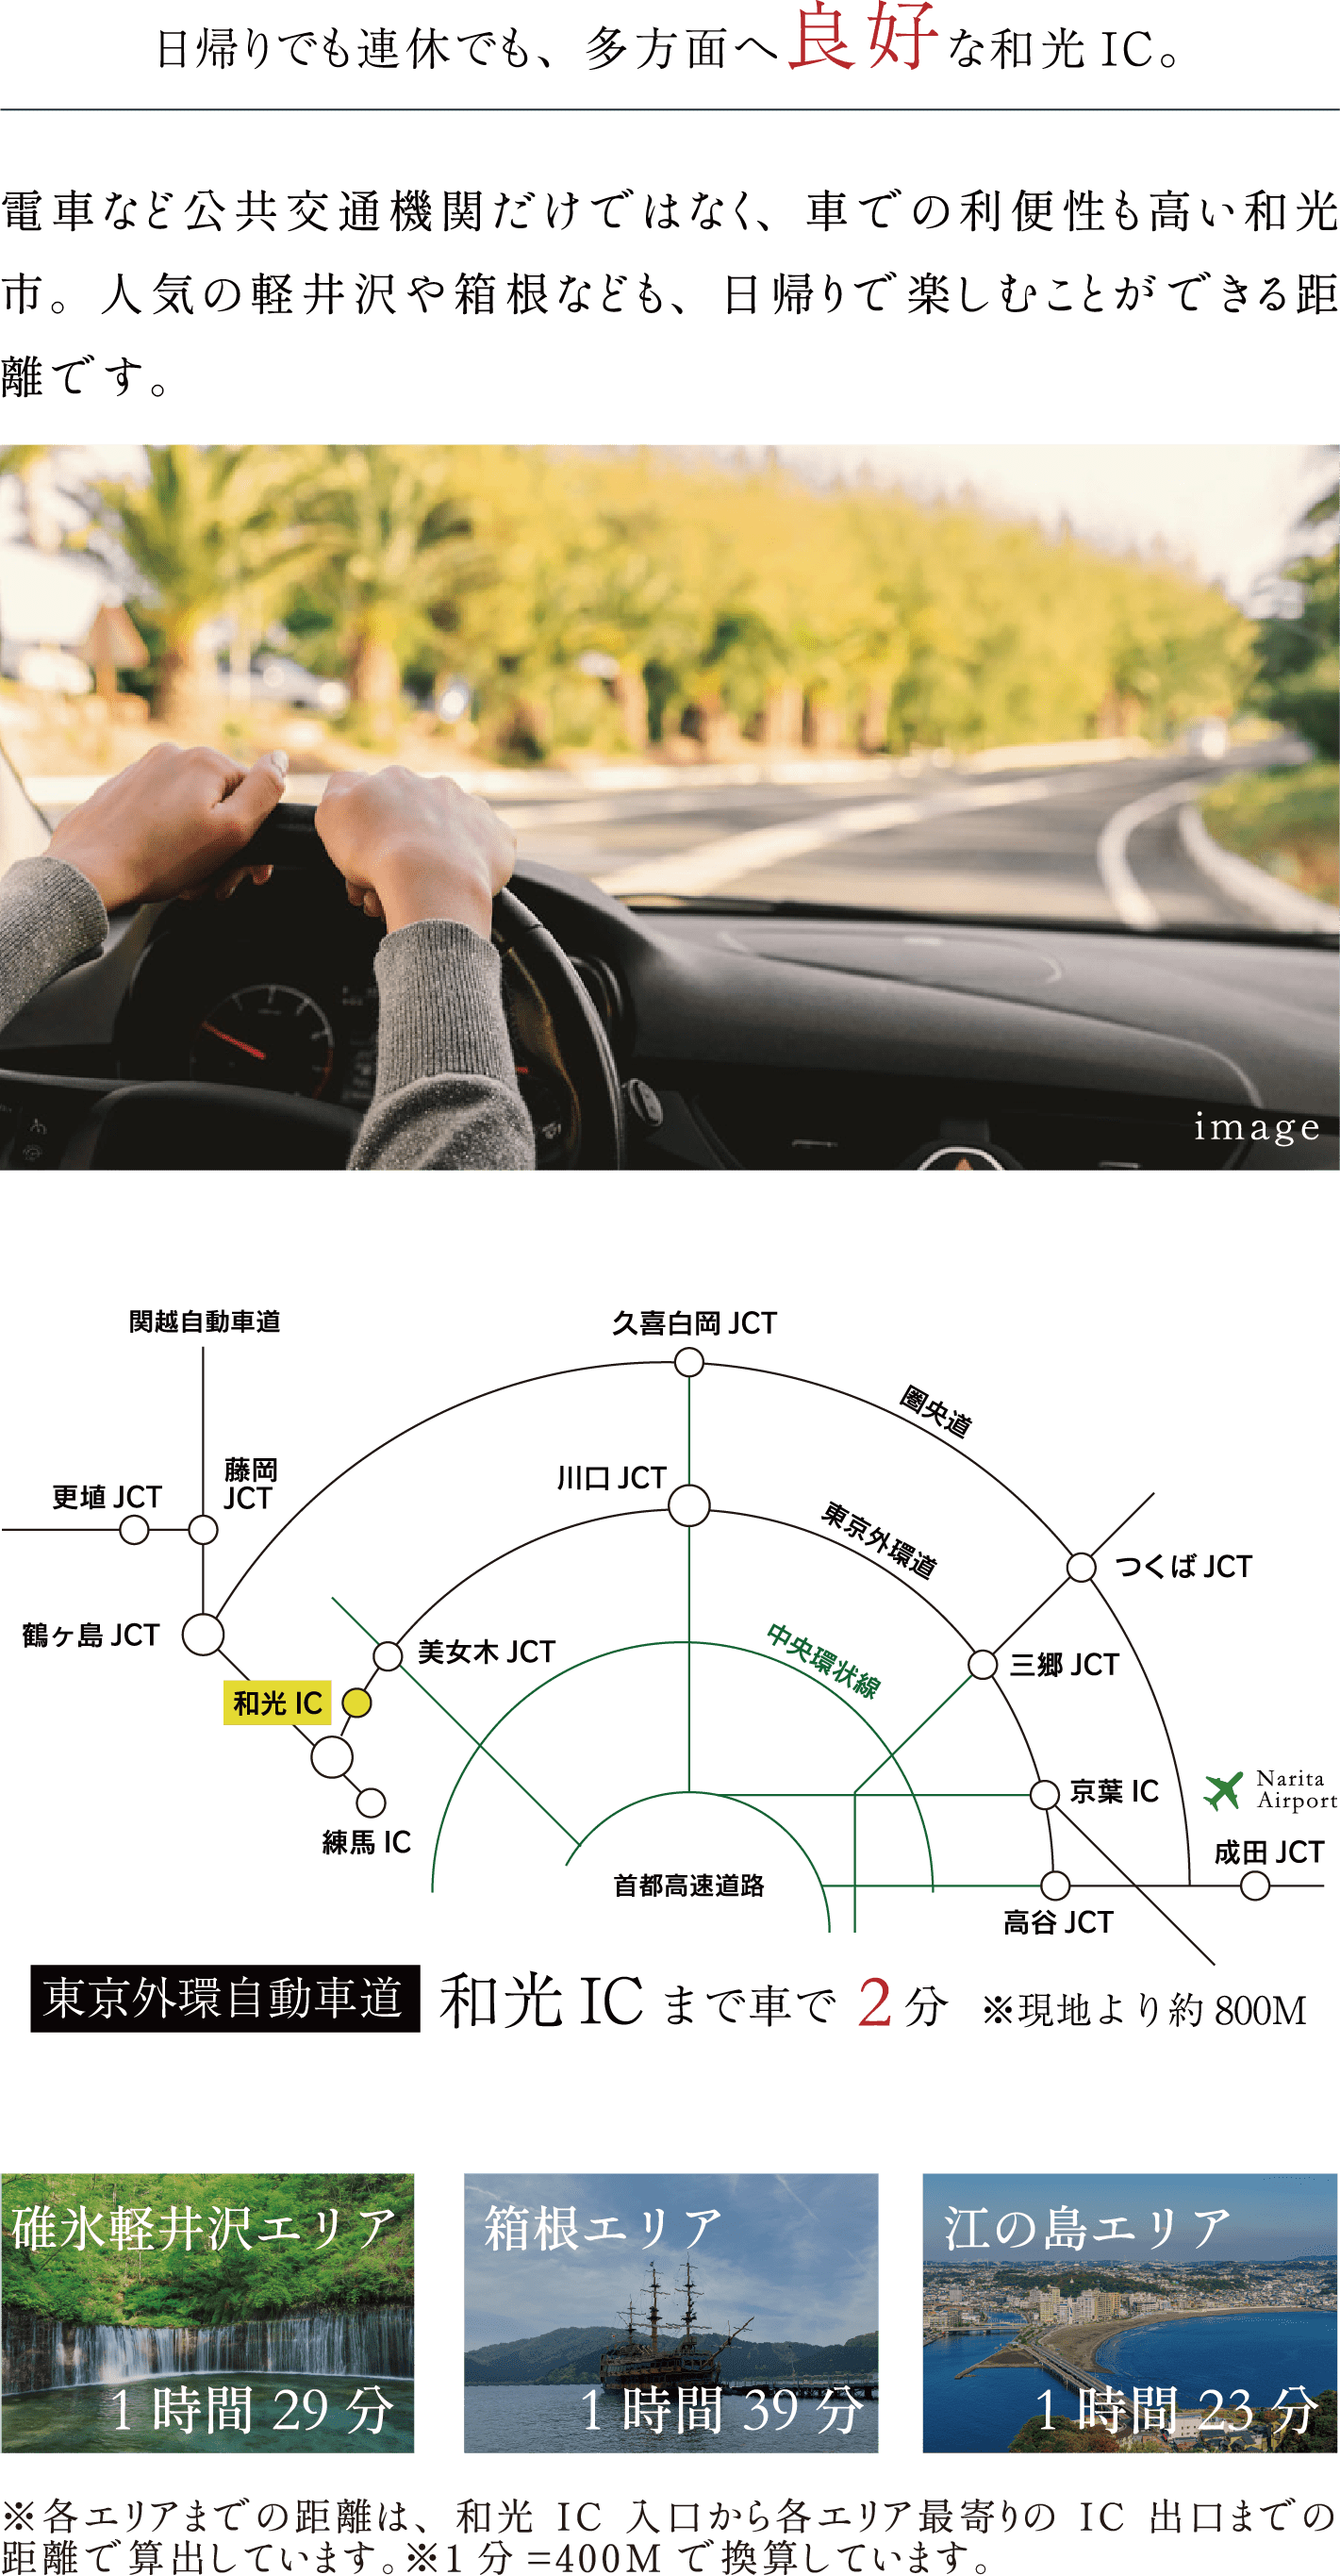
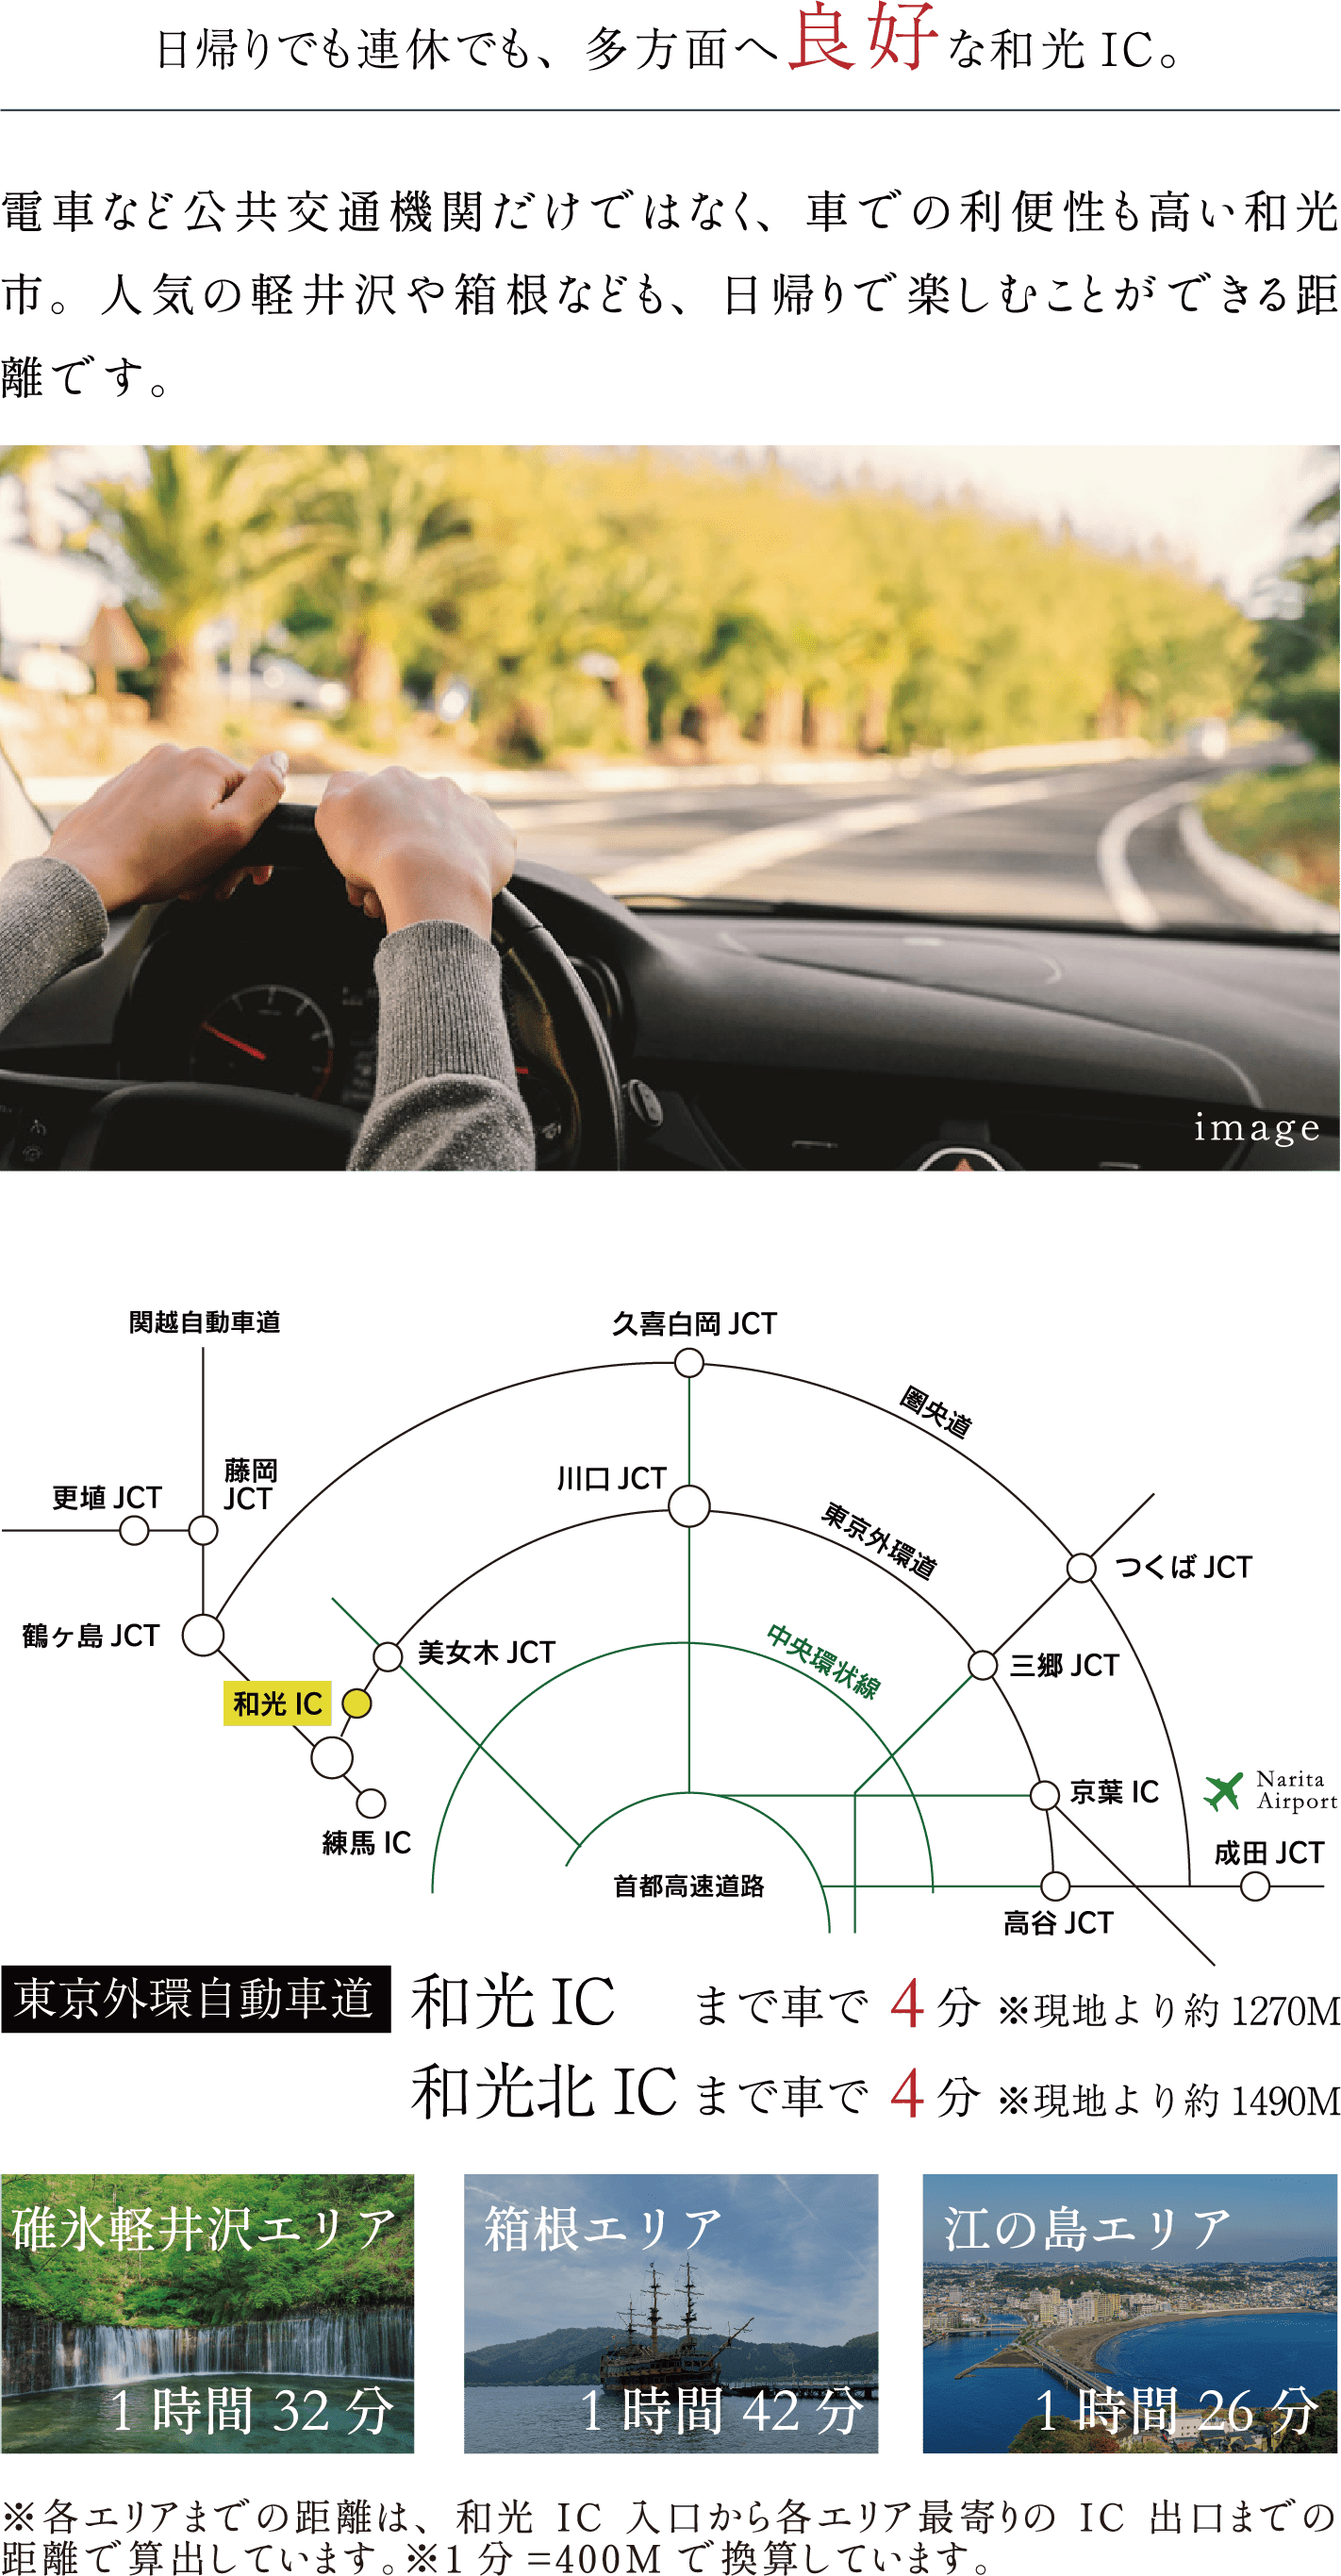
修正・更新
・f-view
・access
・location

diff --git a/index.html b/index.html
@@ -108,6 +108,9 @@
                     都心に直結した暮らし心地の良い街に、
                     自由設計で建てる理想の我が家。 和光市駅まで徒歩8分">
                 </div>
+                <div class="pc l-contentsBox -f-view-item">
+                    <img src="images/item/f-view-item.png" alt="区画整理事業により、ますます便利になる和光市駅">
+                </div>
             </div>
 
             <!-- コンテンツ1 -->
@@ -182,7 +185,7 @@
                 </div>
             </div>
             <!-- コンテンツ5 / 住協の自由設計　J-ECO -->
-            <div id="content3" class="l-contents -img-bg w1200 l-mgb_20">
+            <div id="content3" class="l-contents -img-bg w1200 w93-s l-mgb_20">
                 <div class="imgBox">
                     <img class="pc" src="images/bg/top-content05a.png" alt="住協の自由設計、J-ECO">
                     <img class="sp" src="images/bg/top-content05a_s.png" alt="住協の自由設計、J-ECO">

diff --git a/css/style.css b/css/style.css
@@ -124,7 +124,7 @@ img {
 }
 
 .w1200 {
-  width: 85% !important;
+  width: 75% !important;
   max-width: 1200px;
   margin: auto;
 }
@@ -536,6 +536,15 @@ img {
     max-width: 450px;
   }
 }
+@media screen and (min-width: 767px) {
+  .l-contents.-img-bg .l-contentsBox.-f-view-item {
+    bottom: 0%;
+    left: 35.9%;
+    transform: translate(-50%, -50%);
+    width: 50%;
+    max-width: 670px;
+  }
+}
 .l-contents.-img-bg .l-contentsBox.-kukakuBtn {
   top: 96%;
   left: 50%;
@@ -570,7 +579,7 @@ img {
 }
 @media screen and (min-width: 767px) {
   .l-contents.-img-bg .l-contentsBox.-pin02 {
-    top: 75.5%;
+    top: 78%;
     left: 76.5%;
     width: 45%;
   }

diff --git a/scss/layout/_contents.scss b/scss/layout/_contents.scss
@@ -65,6 +65,15 @@
 					max-width: 450px;
 				}
 			}
+			&.-f-view-item{
+				@include mq(tb){
+					bottom: 0%;
+					left: 35.9%;
+					transform: translate(-50%, -50%);
+					width: 50%;
+					max-width: 670px;
+				}
+			}
 			// 自由設計の街（区画）
 			&.-kukakuBtn{
 				top: 96%;
@@ -95,7 +104,8 @@
 				transform: translate(-50%, -50%);
 				width: 100%;
 				@include mq(tb){
-					top: 75.5%;
+					// top: 75.5%;
+					top: 78%;
 					left: 76.5%;
 					width: 45%;
 				}

diff --git a/scss/layout/_base.scss b/scss/layout/_base.scss
@@ -71,7 +71,7 @@ img{
 
 
 .w1200{
-	width: 85% !important;
+	width: 75% !important;
 	max-width: 1200px;
 	margin: auto;
 	&.-s100{

diff --git a/README.md b/README.md
@@ -3,3 +3,6 @@
 
 # 物件ナンバー
 712861241
+
+# 修正
+* 1016 f-view, access, location
